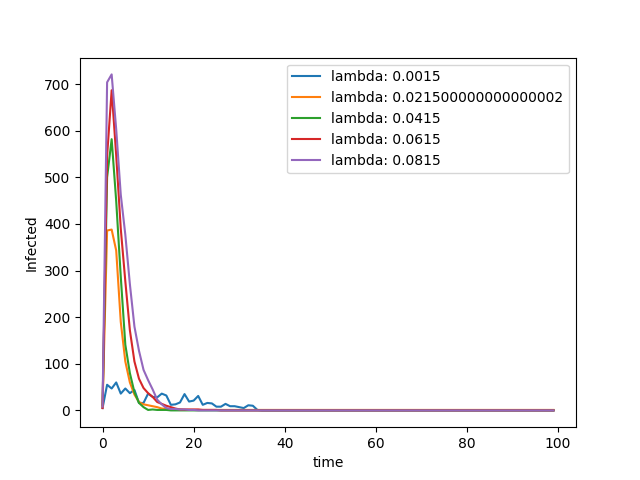
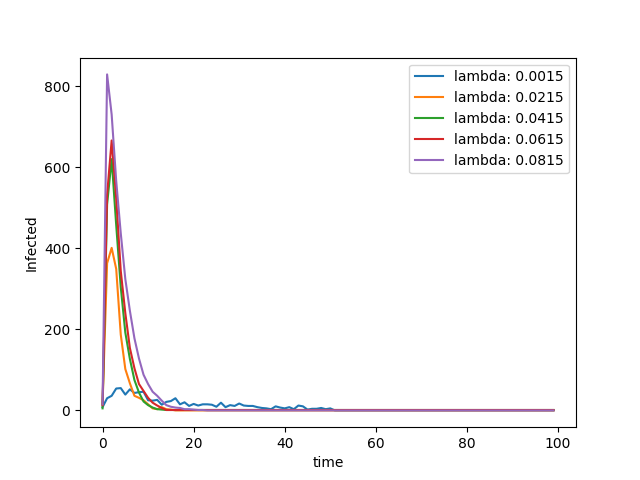
add max decimals

diff --git a/plots.py b/plots.py
@@ -84,7 +84,7 @@ def labda_dependency(i=iInput()):
     for _ in range(5):
         execute_cmd(input=i)
         S, I, R = parse_output(input_file="sir.out")
-        plt.plot(I, label=f"lambda: {i._lambda}")
+        plt.plot(I, label=f"lambda: {i._lambda:.4f}")
         # modify interface
         i._lambda += 0.02
 
